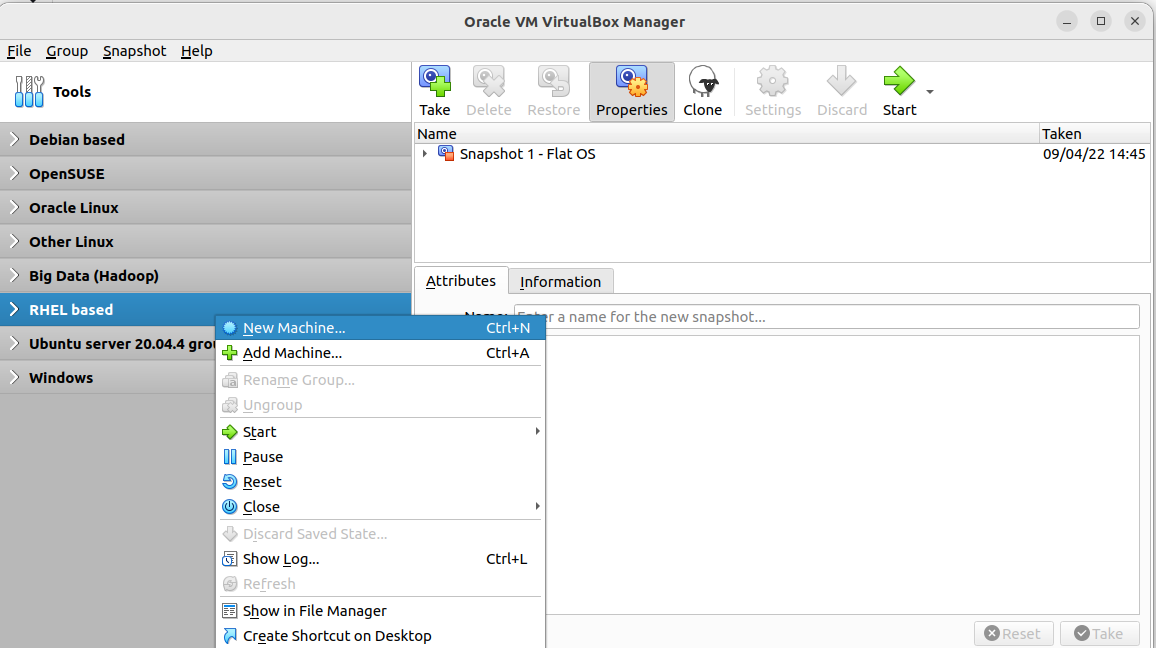
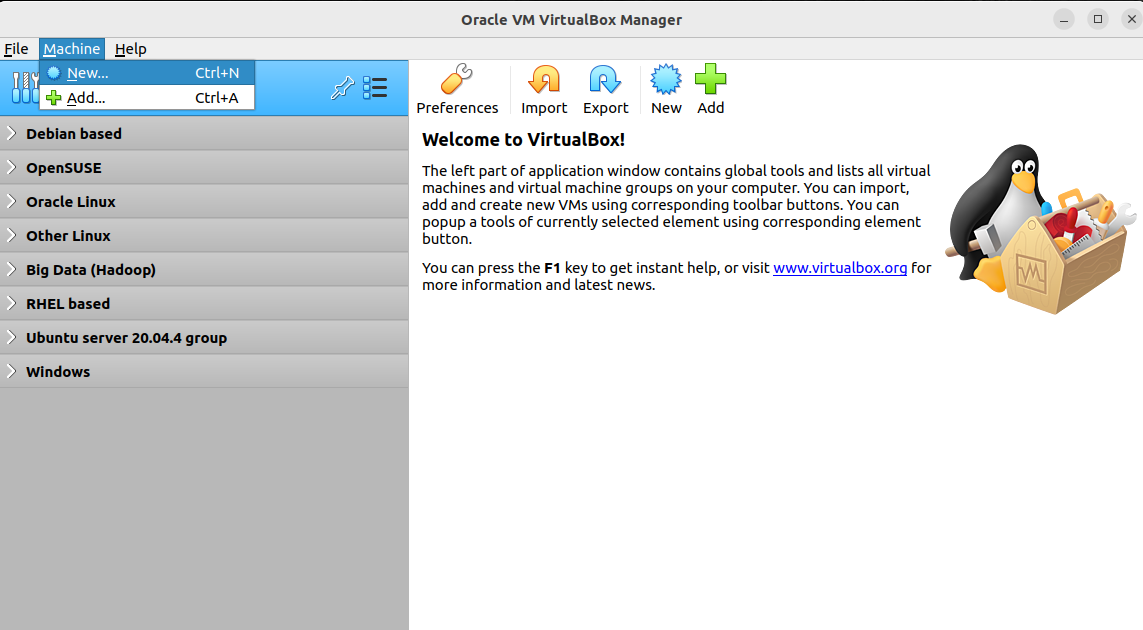
Create a new CentOS 7 VM

diff --git a/vm/centos7/README.md b/vm/centos7/README.md
@@ -1,9 +1,9 @@
-# :notes: Create a new CentOS 7 Virtual Machine
+# Create a new CentOS 7 Virtual Machine
 
-# :paw_prints: Steps
+# Steps
 
 1. Download the `CentOS-7-x86_64-Minimal-2009.iso` from the [**CentOS downloads**](https://www.centos.org/download/) page.
-2. On **VirtualBox** open the main menu and select the **New Machine…** option.
+2. On **VirtualBox** open the main menu and select the **Machine -> New...** option.
     
     ![centos7](images/centos7.png)
     
@@ -85,32 +85,30 @@
     
 
 15. **USER SETTINGS**: select the **ROOT PASSWORD:** menu.
-    ![centos7](images/centos7_16.png)
 
-    a. **ROOT PASSWORD**: type the password for root and confirm.
-        ![centos7](images/centos7_17.png)
-    
+![centos7](images/centos7_16.png)
 
-    b. **CREATE USER**: input the following parameters:
-        1. **Full Name**: user’s full name.
-        2. **User name**: host user account name.
-        3. **Make this user administrator**: checked.
-        4. **Require a password to user this account:** checked.
-        5. **Done**.
-        ![centos7](images/centos7_18.png)
+1. ROOT PASSWORD: type the password for root and confirm.
     
-16. The installation process starts, so wait until the number of packages are copied and installed.
+    ![centos7](images/centos7_17.png)
+    
+2. CREATE USER: input the following parameters:
+    1. **Full Name**: user’s full name.
+    2. **User name**: host user account name.
+    3. **Make this user administrator**: checked.
+    4. **Require a password to user this account:** checked.
+    5. **Done**.
+    
+    ![centos7](images/centos7_18.png)
+    
+3. The installation process starts, so wait until the number of packages are copied and installed.
     
     ![centos7](images/centos7_19.png)
     
-17. Once the installation of CentOS 7 gets complete, click on the Reboot button. (due to the resolution of the VM, the Reboot button could be hidden or shows just a corner of it).
+4. Once the installation of CentOS 7 gets complete, click on the Reboot button. (due to the resolution of the VM, the Reboot button could be hidden or shows just a corner of it).
     
     ![centos7](images/centos7_20.png)
     
-18. The process is done, the VM is started up and able to login with either the root or administrator accounts.
+5. The process is done, the VM is started up and able to login with either the root or administrator accounts.
     
     ![centos7](images/centos7_21.png)
-
-# :books: References
-- [VirtualBox.org](https://virtualbox.org)
-- [CentOS.org](https://www.centos.org)
